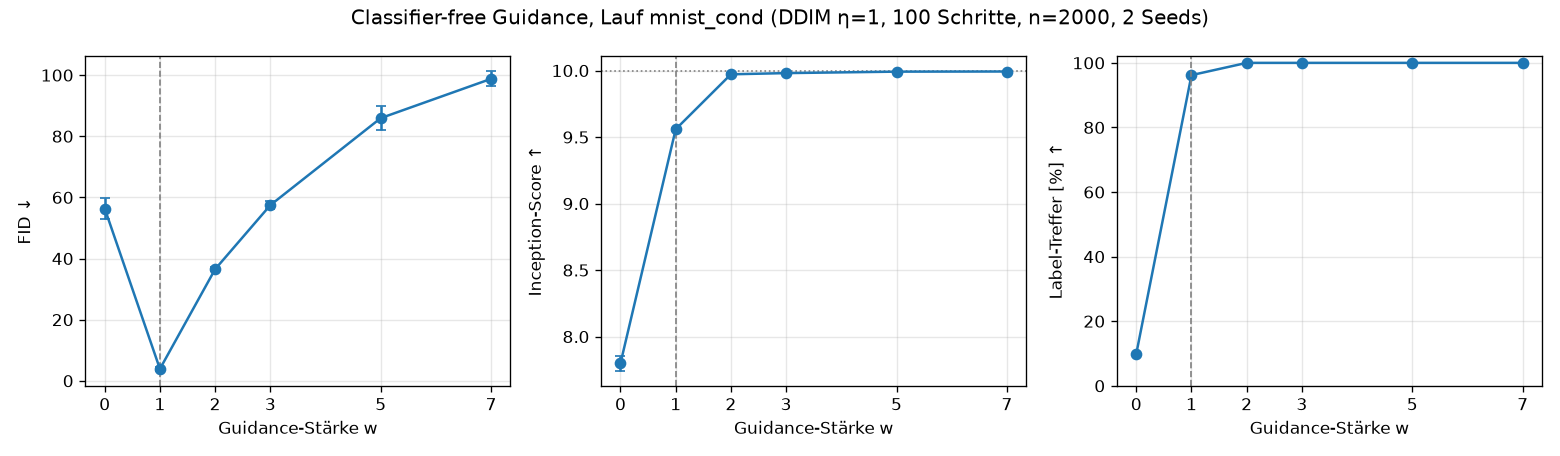
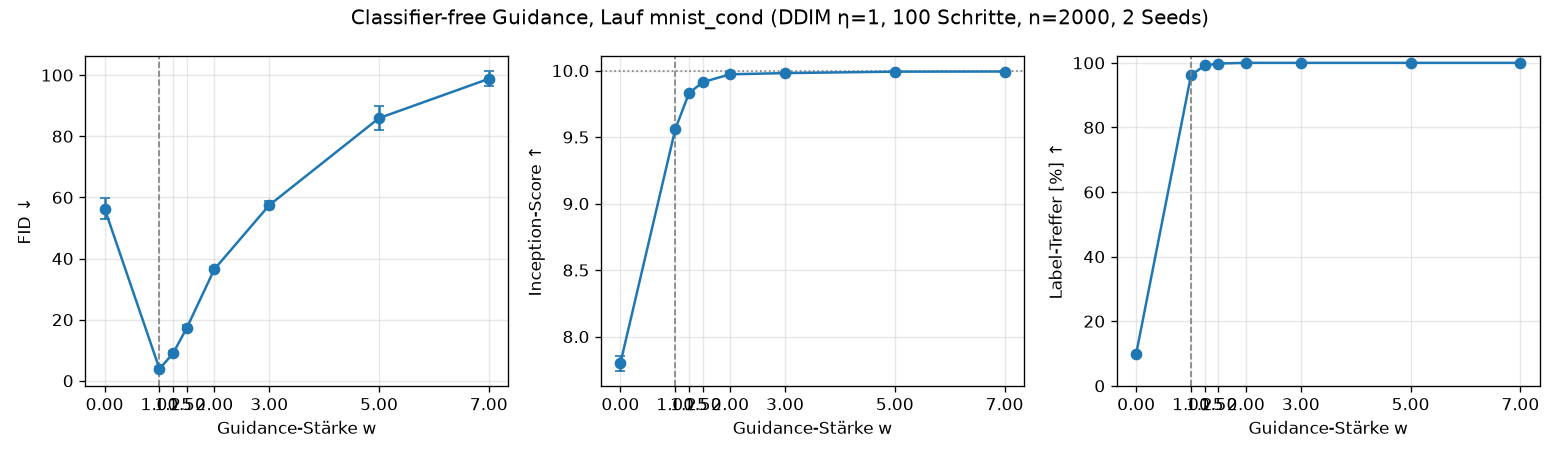
M5: Konditionierung + CFG, Exp 4, DDIM-Clamp-Fix, Neumessung Exp 1+3 (v2)

diff --git a/scripts/plot_model_size.py b/scripts/plot_model_size.py
@@ -9,7 +9,7 @@ import matplotlib.pyplot as plt
 from matplotlib.ticker import NullFormatter
 
 RUNS = [("mnist_cosine_b16", 16, 0.67), ("mnist_cosine", 32, 2.17), ("mnist_cosine_b64", 64, 8.10)]
-TAG = "ddim100_eta1_n5000"
+TAG = "ddim100_eta1_n5000_v2"
 
 params, fid, fid_sd, is_, is_sd = [], [], [], [], []
 for run, base, mparams in RUNS:

diff --git a/docs/RESULTS.md b/docs/RESULTS.md
@@ -4,7 +4,11 @@ Alle Zahlen: MNIST 32x32, U-Net mit 2,17 M Parametern (base=32), 20 Epochen, Bat
 AdamW lr 2e-4, EMA 0.999, Seed 0, Apple M5 (MPS). Bewertung mit dem Klassifikator-Richter
 (`ddpm/classifier.py`, 99,0 % Test-Genauigkeit) auf 1000 generierten Bildern.
 
-**Referenz (echte MNIST-Bilder, n=1000):** IS 9,71 · FID 5,24 · Konfidenz 0,991.
+**Referenz (echte MNIST-Bilder):** n=1000: IS 9,71 · FID 5,24 · n=5000: IS 9,75 · FID 1,69.
+
+**Hinweis zur Messversion:** Alle n=5000-Tabellen in Exp 1 und 3 zeigen die **v2-Messung**
+mit dem korrigierten DDIM-Schritt (Clamp-Fix aus Exp 4, JSON-Tag `_v2`). Die v1-Werte
+(vor dem Fix, ~1–5 FID-Punkte höher, gleiche Rangfolge) sind in Klammern angegeben.
 Der FID ist auch zwischen echten Bildern nicht 0, weil 1000 Bilder die Verteilung nur
 schätzen. **Achtung:** für generierte Bilder ist die Streuung deutlich größer (siehe Exp 1:
 ±3 FID-Punkte zwischen zwei Sampling-Seeds desselben Modells).
@@ -57,20 +61,20 @@ Sampling ~6 min pro 1000 Bilder kostet.
 Sampler DDIM η=1, 100 Schritte (siehe Exp 2), **n=5000**, 3 Seeds. Beide Modelle bekommen
 pro Seed dasselbe Start-Rauschen (gepaarter Vergleich).
 
-| Lauf | IS ↑ | FID ↓ | FID je Seed (0 / 1 / 2) |
-|------|-----:|------:|-------------------------|
-| mnist_base (linear)   | 8,74 ± 0,07 | 14,04 ± 0,26 | 14,13 / 14,24 / 13,75 |
-| mnist_cosine (cosine) | 8,73 ± 0,04 | **13,04 ± 0,90** | 13,76 / 13,33 / 12,03 |
+| Lauf | IS ↑ | FID ↓ (v2) | FID je Seed (0 / 1 / 2) | FID v1 |
+|------|-----:|-----------:|-------------------------|-------:|
+| mnist_base (linear)   | 8,81 ± 0,03 | 11,88 ± 1,01 | 10,79 / 12,07 / 12,78 | (14,04) |
+| mnist_cosine (cosine) | 8,80 ± 0,05 | **11,10 ± 0,88** | 10,65 / 12,11 / 10,53 | (13,04) |
 
-Die FID-Streuung ist mit n=5000 von ±3–6 auf unter ±1 gefallen, und der absolute Wert
-sinkt von ~17–19 auf ~14 (bekannte Verzerrung des FID nach oben bei kleinem n).
+Die FID-Streuung ist mit n=5000 von ±3–6 auf ~±1 gefallen, und der absolute Wert sinkt
+von ~17–19 auf ~12 (bekannte Verzerrung des FID nach oben bei kleinem n).
 
-**Finaler Befund Exp 1:** Der Cosinus-Schedule hat einen **kleinen, aber konsistenten
-Vorteil im FID** (−1,0 Punkte, in 3 von 3 gepaarten Seeds besser, Differenz 0,4 / 0,9 / 1,7).
-Im IS gibt es keinen Unterschied. Der Effekt ist real, aber klein (~7 %) und weit von dem
+**Finaler Befund Exp 1: allenfalls ein kleiner Vorteil für den Cosinus-Schedule, nicht
+robust.** Im Mittel −0,8 FID, aber gepaart nur in 2 von 3 Seeds besser (Differenzen
++0,14 / −0,04 / +2,25); Seed 1 ist praktisch gleich, der Mittelwert wird von Seed 2 getragen.
+In der v1-Messung waren es noch 3 von 3 (−1,0). Im IS kein Unterschied. Das ist weit von dem
 entfernt, was die erste Messung mit n=1000 in die *Gegenrichtung* suggeriert hatte.
-Nebenbefund: Beide Modelle erzeugen zu viele 7en (12–13 %) und zu wenige 8en (8 %); beim
-Cosinus-Modell ist das Ungleichgewicht etwas geringer.
+Nebenbefund: Beide Modelle erzeugen zu viele 7en (12–13 %) und zu wenige 8en (8 %).
 
 **Lehre in einem Satz:** Ohne Kenntnis der Metrik-Streuung hätte dieses Experiment die
 falsche Antwort geliefert; mit n=5000 und gepaarten Seeds ist die Antwort klein, aber klar.
@@ -146,20 +150,20 @@ IS 9,75 · FID 1,69.
 
 | Lauf | base | Parameter | Training/Epoche | Loss (Ep. 20) | IS ↑ | FID ↓ | 8er-Anteil | ms/Bild |
 |------|-----:|----------:|----------------:|--------------:|-----:|------:|-----------:|--------:|
-| mnist_cosine_b16 | 16 | 0,67 M | 44 s  | 0,033 | 7,96 ± 0,03 | 38,0 ± 1,1 | 8,5 % | 22 |
-| mnist_cosine     | 32 | 2,17 M | ~90 s | 0,031 | 8,73 ± 0,04 | 13,0 ± 0,9 | 8,4 % | 49 |
-| mnist_cosine_b64 | 64 | 8,10 M | ~380 s | 0,030 | **9,10 ± 0,02** | **7,8 ± 1,1** | 9,0 % | ~170–200* |
+| mnist_cosine_b16 | 16 | 0,67 M | 44 s  | 0,033 | 8,15 ± 0,05 | 32,4 ± 2,4 (v1 38,0) | 7,7 % | 22 |
+| mnist_cosine     | 32 | 2,17 M | ~90 s | 0,031 | 8,80 ± 0,05 | 11,1 ± 0,9 (v1 13,0) | 8,0 % | 49 |
+| mnist_cosine_b64 | 64 | 8,10 M | ~380 s | 0,030 | **9,15 ± 0,03** | **6,6 ± 0,8** (v1 7,8) | 8,8 % | ~170–200* |
 
 \* Seed 0 lief mit 522 ms/Bild, Seeds 1–2 mit 207/171 ms: Systemlast, nicht Modell.
 
 ![Modellgröße](img/model_size.png)
 
 **Befund: Hypothese bestätigt, Modellgröße ist mit Abstand der stärkste Hebel.**
-Von base 16 auf 64 fällt der FID von 38 auf 7,8 (Faktor 5) und der IS steigt von 7,96 auf
-9,10 (Referenz echte Ziffern 9,75). Zum Vergleich: Der Schedule-Effekt (Exp 1) war 1 FID-Punkt.
+Von base 16 auf 64 fällt der FID von 32 auf 6,6 (Faktor 5) und der IS steigt von 8,15 auf
+9,15 (Referenz echte Ziffern 9,75). Zum Vergleich: Der Schedule-Effekt (Exp 1) war 1 FID-Punkt.
 Der Trainings-Loss unterscheidet sich dabei nur in der dritten Nachkommastelle (0,033 →
 0,030), was erneut zeigt, wie wenig die ε-MSE über Bildqualität aussagt.
-Das große Modell erzeugt auch die 8 nahezu ausgewogen (9,0 % statt 8,4 %), bleibt aber bei
+Das große Modell erzeugt auch die 8 etwas ausgewogener (8,8 % statt 8,0 %), bleibt aber bei
 der 7 leicht über (11,9 %).
 
 **Kosten:** 12× mehr Parameter = 8,6× längeres Training (2 h statt 15 min für 20 Epochen)
@@ -170,14 +174,15 @@ Bilder: `docs/img/samples_cosine_b16.png`, `samples_cosine_b32.png`, `samples_co
 
 ---
 
-## Zusammenfassung M4
+## Zusammenfassung M4 + M5 (alle Hebel, FID n=5000 v2)
 
 | Hebel | Effekt auf FID (n=5000) | Kosten |
 |-------|------------------------:|--------|
-| Modellgröße base 16 → 64 | 38 → 7,8 | 8,6× Trainingszeit, 4× Sampling |
+| Klassen-Konditionierung (Exp 4, base 32) | 11,1 → **3,9** | Labels nötig, sonst keine |
+| Modellgröße base 16 → 64 | 32 → 6,6 | 8,6× Trainingszeit, 4× Sampling |
 | Sampler DDIM η=0 → η=1 (50 Schritte) | 36 → 21 (n=1000) | keine |
 | Sampling-Schritte η=1, 50 → 250 | 21 → 17 (n=1000) | 5× Sampling-Zeit |
-| Schedule linear → cosine | 14,0 → 13,0 | keine |
+| Schedule linear → cosine | 11,9 → 11,1 (nicht robust) | keine |
 
 Methodische Lehren: (1) Streuung der Metrik messen, bevor man Effekte interpretiert
 (n=1000 reichte nicht); (2) gepaarte Seeds; (3) Trainings-Loss ist zwischen Setups kein
@@ -201,6 +206,8 @@ Anteil, bei dem der Richter die angeforderte Ziffer erkennt.
 | Null-Label (unkonditioniert) | – | 7,62 | 61,8 ± 8,7 | – | 0,907 | 55 |
 | CFG | 0 | 7,80 | 56,4 ± 3,3 | 9,9 % | 0,915 | 82 |
 | **konditioniert** | **1** | **9,56** | **3,9 ± 0,6** | **96,2 %** | 0,984 | 40 |
+| CFG | 1,25 | 9,83 | 9,1 ± 0,7 | 99,2 % | – | 82 |
+| CFG | 1,5 | 9,91 | 17,4 ± 0,9 | 99,8 % | – | 83 |
 | CFG | 2 | 9,97 | 36,5 ± 0,6 | 100 % | 0,999 | 83 |
 | CFG | 3 | 9,98 | 57,5 ± 1,2 | 100 % | 1,000 | 89 |
 | CFG | 5 | 9,99 | 85,9 ± 4,0 | 100 % | 1,000 | 89 |
@@ -220,8 +227,10 @@ ab w=2 steil an.** Gleichzeitig gehen Label-Treffer auf 100 %, Konfidenz auf 1,0
 Bild zum „Prototyp“ seiner Klasse. Der Richter ist begeistert (jede Ziffer eindeutig), der
 FID bestraft den Verlust an Vielfalt, weil die Verteilung der generierten Bilder schmaler
 wird als die echte. Sichtbar in `docs/img/cond_w7.png`: dicke, gleichförmige Striche.
-Im CFG-Paper liegt das FID-Optimum ebenfalls nahe w≈1,1–1,3; die Feinauflösung
-(w=1,25 / 1,5) läuft.
+Die Feinauflösung bestätigt: schon w=1,25 kostet 5 FID-Punkte, w=1,5 verdreifacht den
+Wert. Das Optimum liegt bei w=1 (oder knapp darüber, unter 1,25 nicht gemessen). Im
+CFG-Paper liegt es bei w≈1,1–1,3 auf ImageNet; auf MNIST mit nur zehn eng definierten Klassen
+ist der Spielraum für Guidance kleiner.
 
 **Befund 3 — der Null-Label-Zweig allein ist schwach** (FID 62 gegen ~13 für ein eigenes
 unkonditioniertes Modell): Er bekommt nur 10 % der Trainingsbeispiele. Für CFG reicht das,
@@ -232,7 +241,9 @@ Bilder ab w=2 zu Klecksen — aber nur mit dem DDIM-Sampler, nicht mit DDPM. Urs
 DDIM-Schritt clampte x̂_0 auf [-1, 1], rechnete den Richtungsterm aber mit dem ungeclampten,
 durch Guidance vergrößerten ε̂ weiter. Fix wie in diffusers: ε̂ nach dem Clamp aus dem
 geclampten x̂_0 zurückrechnen. Die Korrektur verbessert auch unkonditionierte Läufe leicht
-(Cosinus Seed 0: FID 13,76 → 12,56), daher werden Exp 1 und 3 neu gemessen (v2).
+(alle Läufe: 1–5 FID-Punkte, gleiche Rangfolge), daher wurden Exp 1 und 3 neu gemessen (v2,
+Tabellen oben aktualisiert). Ein Bug in einem Experiment kann also stillschweigend alle
+vorherigen Messungen verzerren, ohne dass es dort auffällt.
 
 **Praktische Lehre für SDXL:** Der Guidance-Regler (dort typisch 5–7,5) ist genau dieser
 Trade-off. Hohe Werte = prompt-treu und „glatt“, niedrige = vielfältiger, aber ungenauer.
